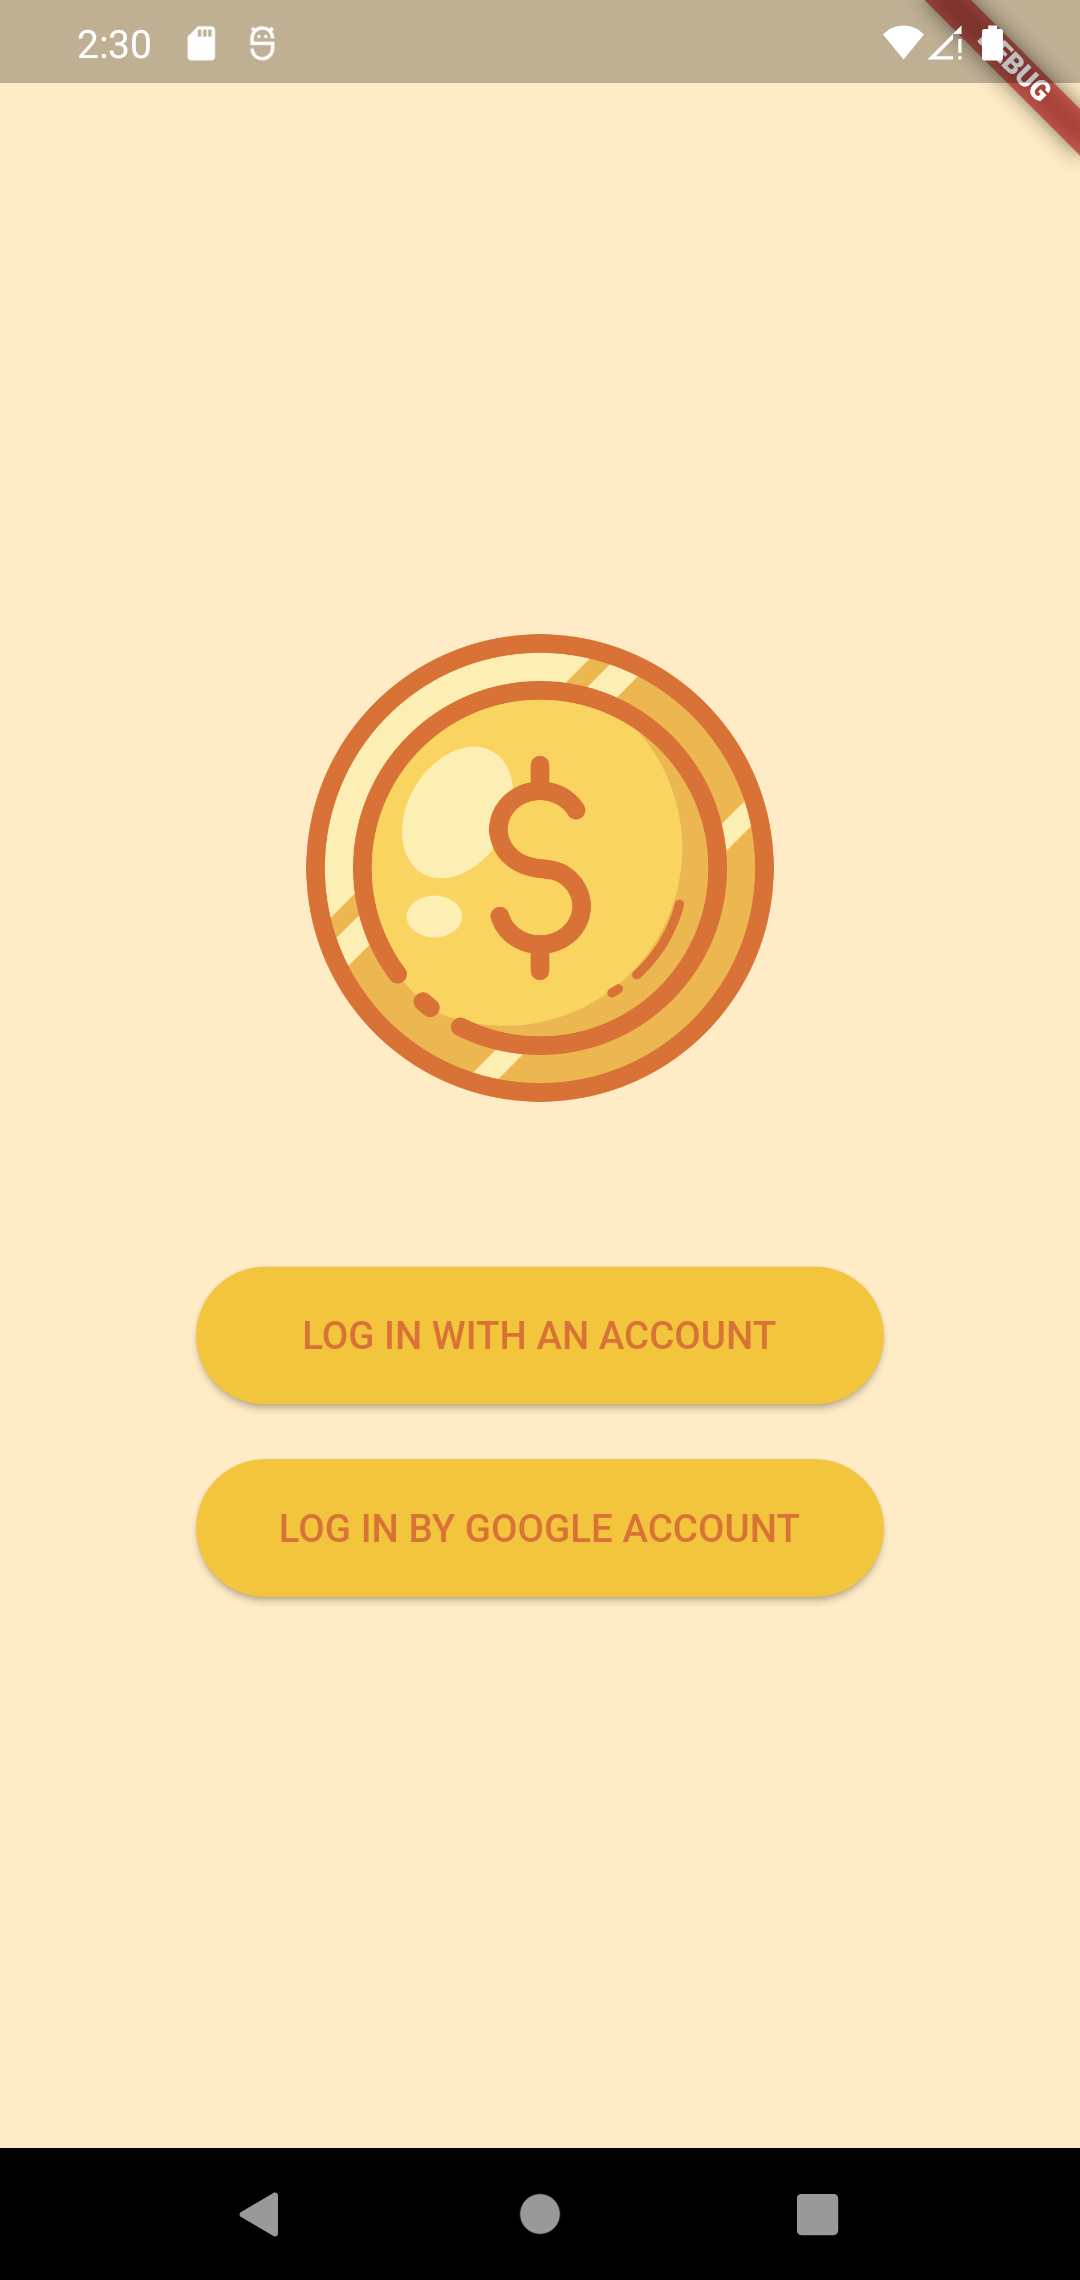
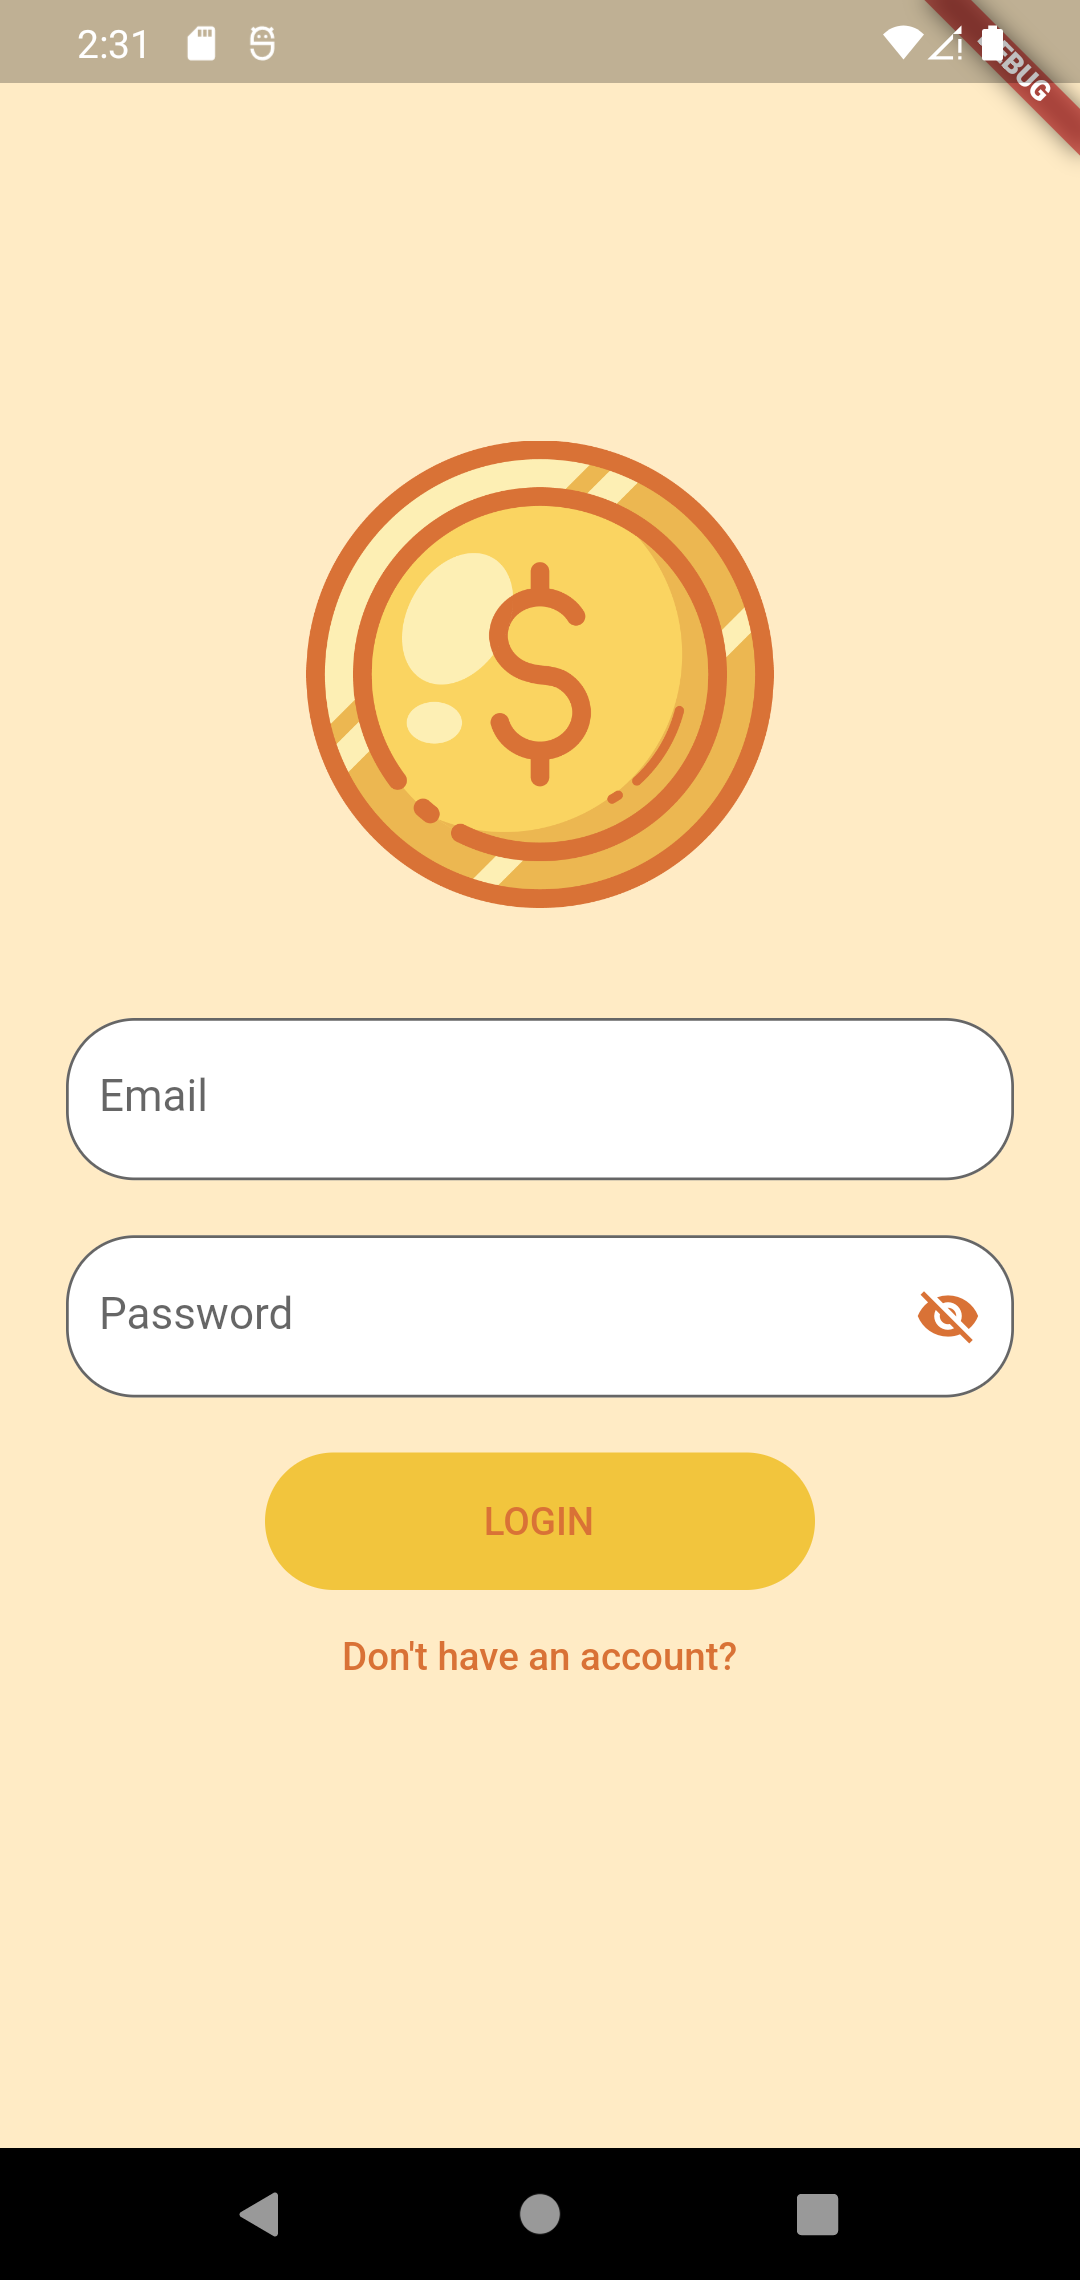
updated README

Changed region(s): [[0.0611, 0.1868, 0.9472, 0.7474], [0.1222, 0.0, 0.1528, 0.0311]]

diff --git a/README.md b/README.md
@@ -2,19 +2,18 @@
 
 This project was proposed on a training course organized by Snowman Labs. Its main purpose is to allow users to convert coins and store it for future purposes.
 
-As you can see on the images bellow, you need to login on our app. You can login with a Google Account or create a new profile. When you click on the phrase 'Don't have an account?', you will be redirected to a register page, as seen on the third image bellow.
+As you can see on the images bellow, you need to login on our app. You can also create a new profile. When you click on the phrase 'Don't have an account?', you will be redirected to a register page, as seen on the second image bellow.
 
 <div style="display: flex;">
 <img src="./screenshots/screenshot1.png" width="250">&nbsp;&nbsp;
-<img src="./screenshots/screenshot2.png" width="250">&nbsp;&nbsp;
-<img src="./screenshots/screenshot3.png" width="250">
+<img src="./screenshots/screenshot2.png" width="250">
 </div>
 
 When you login to our app, the screenshots illustrated on the images bellow is shown. The first screen is a page where you type a number to convert to a different coin. The second screen shows different convertions made by you in the past. As you can see, you have the option to delete the convertions as well, it can be done if you click in the trash can positioned on the right corner of each convertion.
 
 <div style="display: flex;">
-<img src="./screenshots/screenshot4.png" width="250">&nbsp;&nbsp;
-<img src="./screenshots/screenshot5.png" width="250">
+<img src="./screenshots/screenshot3.png" width="250">&nbsp;&nbsp;
+<img src="./screenshots/screenshot4.png" width="250">
 </div>
 
 ## How to get its code
